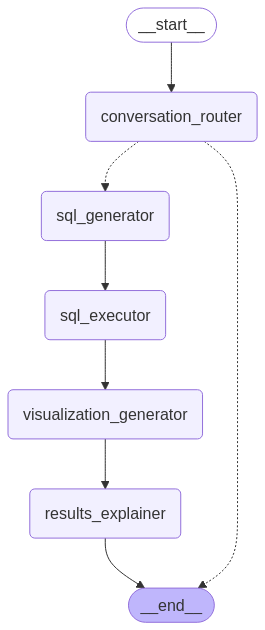
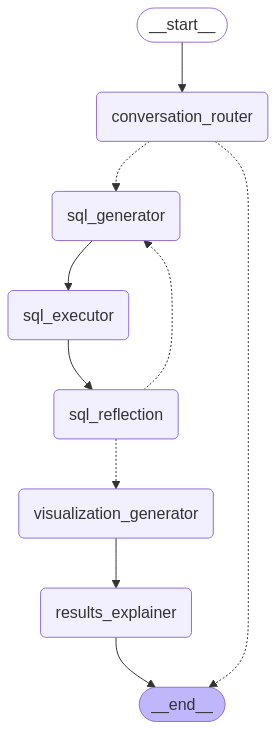
Add a SQL reflection Agent

Changed region(s): [[0.0, 0.0, 0.9962, 0.9048], [0.4528, 0.9048, 0.8453, 0.9952], [0.966, 0.181, 0.9962, 0.2111]]

diff --git a/src/core/agents.py b/src/core/agents.py
@@ -16,6 +16,7 @@ from src.prompts import (
     SQL_EXECUTOR_PROMPT,
     VISUALIZATION_PROMPT,
     CONVERSATION_ROUTER_PROMPT,
+    SQL_REFLECTION_PROMPT,
 )
 from src.models.gemini import get_model
 from src.tools.bigquery import execute_bigquery_sql
@@ -41,6 +42,9 @@ class AnalysisState(TypedDict):
     visualization_config: Dict[str, Any]
     chat_history: Optional[List[Dict[str, str]]]
     requires_analytics: bool  # New field to track if analytics is needed
+    sql_feedback: Optional[str]  # Field to store feedback for SQL regeneration
+    reflection_result: Optional[str]  # Field to store the SQL reflection decision
+    general_response: Optional[str]  # Field to store general conversation response
 
 
 # Initialize the model client
@@ -140,15 +144,20 @@ def sql_generator_node(state: AnalysisState):
     if conversation_context:
         system_prompt += f"\n\nRecent conversation history for context:\n{conversation_context}"
     
+    # Determine if we should include SQL feedback from a prior reflection
+    user_content = f"Convert this question into a BigQuery SQL query: {state['question']}"
+    
+    # If we have feedback from a previous SQL execution, include it
+    if state.get("sql_feedback"):
+        user_content += f"\n\nImportant feedback from previous SQL execution to incorporate:\n{state['sql_feedback']}"
+        
     messages = [
         SystemMessage(content=system_prompt),
-        HumanMessage(
-            content=f"Convert this question into a BigQuery SQL query: {state['question']}"
-        ),
+        HumanMessage(content=user_content),
     ]
     response = model.invoke(messages)
 
-    return {"messages": [response], "sql_query": response.content}
+    return {"messages": [response], "sql_query": response.content, "sql_feedback": None}
 
 
 #######################################
@@ -188,6 +197,86 @@ def sql_executor_node(state: AnalysisState):
 
     # Extract results from the tool response
     return {"messages": [result_message], "query_results": response}
+
+
+#######################################
+# SQL Reflection Node
+#######################################
+
+
+def sql_reflection_node(state: AnalysisState):
+    """
+    Node that evaluates SQL execution results to determine if they're valid and useful.
+    
+    Args:
+        state: The current state of the analytics workflow
+        
+    Returns:
+        Updated state with reflection results and decision to proceed or retry
+    """
+    # Get the original question, SQL query, and query results
+    question = state["question"]
+    sql_query = state["sql_query"]
+    query_results = state["query_results"]
+    
+    # Format the query results for easier analysis
+    formatted_results = str(query_results)
+    if isinstance(query_results, dict) and "results" in query_results:
+        if isinstance(query_results["results"], list):
+            # Include number of results and sample of data
+            result_count = len(query_results["results"])
+            sample = query_results["results"][:5] if result_count > 0 else []
+            formatted_results = f"Total results: {result_count}\nSample: {sample}"
+    
+    # Create the reflection prompt
+    messages = [
+        SystemMessage(content=SQL_REFLECTION_PROMPT),
+        HumanMessage(
+            content=f"""
+            Original question: {question}
+            
+            SQL query executed:
+            {sql_query}
+            
+            Execution results:
+            {formatted_results}
+            
+            Did these results properly answer the question?
+            """
+        ),
+    ]
+    
+    # Get the reflection response
+    response = model.invoke(messages)
+    reflection_content = response.content
+    
+    logger.info(f"SQL reflection: {reflection_content[:100]}...")
+    
+    # Determine if we should proceed or retry based on the reflection
+    should_proceed = reflection_content.upper().startswith("DECISION: PASS")
+    reflection_result = "PASS" if should_proceed else "RETRY"
+    
+    # Extract feedback for SQL regeneration if needed
+    sql_feedback = None
+    if not should_proceed:
+        # Extract the feedback part (after "DECISION: RETRY")
+        decision_marker = "DECISION: RETRY"
+        if decision_marker in reflection_content:
+            sql_feedback = reflection_content[reflection_content.find(decision_marker) + len(decision_marker):].strip()
+        else:
+            sql_feedback = reflection_content
+    
+    # Log both the reflection result and feedback for debugging
+    logger.info(f"SQL reflection decision: {reflection_result}")
+    if sql_feedback:
+        logger.info(f"SQL feedback for retry: {sql_feedback[:100]}...")
+    
+    # Return decision and feedback
+    return {
+        "messages": [response],
+        "reflection_result": reflection_result,
+        "sql_feedback": sql_feedback
+    }
 
 
 #######################################

diff --git a/src/core/graph.py b/src/core/graph.py
@@ -6,7 +6,6 @@ from langgraph.graph import END, START, StateGraph
 from langgraph.checkpoint.memory import MemorySaver
 from typing import Dict, Any, AsyncIterator, TypedDict, List, Union, Optional, Callable
 from langchain_core.messages import BaseMessage, HumanMessage, AIMessage
-import asyncio
 import logging
 
 from src.core.agents import (
@@ -16,6 +15,7 @@ from src.core.agents import (
     results_explainer_node,
     visualization_generator_node,
     conversation_router_node,
+    sql_reflection_node,
 )
 
 # Initialize agent memory
@@ -39,6 +39,7 @@ def create_analytics_graph():
     workflow.add_node("conversation_router", conversation_router_node)
     workflow.add_node("sql_generator", sql_generator_node)
     workflow.add_node("sql_executor", sql_executor_node)
+    workflow.add_node("sql_reflection", sql_reflection_node)
     workflow.add_node("visualization_generator", visualization_generator_node)
     workflow.add_node("results_explainer", results_explainer_node)
 
@@ -80,9 +81,41 @@ def create_analytics_graph():
         }
     )
     
-    # Continue with the standard analytics pipeline
+    # Standard analytics pipeline with SQL, then execution
     workflow.add_edge("sql_generator", "sql_executor")
-    workflow.add_edge("sql_executor", "visualization_generator")
+    
+    # Add SQL reflection node after execution
+    workflow.add_edge("sql_executor", "sql_reflection")
+    
+    # Define conditional routing based on SQL reflection results
+    def route_sql_results(state: AnalysisState) -> str:
+        """Determine whether to proceed with results or retry SQL generation."""
+        reflection_result = state.get("reflection_result", "PASS")
+        
+        # Ensure reflection_result is properly set in the state for handlers to access
+        logger.info(f"SQL Reflection decision: {reflection_result}")
+        
+        if reflection_result == "RETRY":
+            # Log the feedback that will be provided to SQL generator
+            feedback = state.get("sql_feedback", "Results were not satisfactory")
+            logger.info(f"SQL feedback for retry: {feedback[:100]}...")
+            return "sql_generator"
+        else:
+            # Proceed with visualization and explanation
+            logger.info("SQL reflection passed, proceeding with results processing")
+            return "visualization_generator"
+    
+    # Add conditional edges from SQL reflection
+    workflow.add_conditional_edges(
+        "sql_reflection",
+        route_sql_results,
+        {
+            "sql_generator": "sql_generator",  # Route back to SQL generator for retry
+            "visualization_generator": "visualization_generator",  # Continue to visualization
+        }
+    )
+    
+    # Continue with visualization and results explanation
     workflow.add_edge("visualization_generator", "results_explainer")
     workflow.add_edge("results_explainer", END)
 
@@ -90,6 +123,7 @@ def create_analytics_graph():
     graph = workflow.compile(checkpointer=memory)
     logger.info("Analytics graph compiled successfully.")
     graph.get_graph().draw_mermaid_png(output_file_path="analytics_graph.png")
+    logger.info("Analytics graph diagram saved as analytics_graph.png")
 
     return graph
 
@@ -121,7 +155,9 @@ def run_analytics_query(question: str, chat_history: Optional[List[Dict[str, str
         "visualization_config": {},
         "chat_history": chat_history or [],
         "requires_analytics": False,
-        "general_response": ""
+        "general_response": "",
+        "sql_feedback": None,
+        "reflection_result": None
     }
 
     # Execute the workflow
@@ -180,7 +216,9 @@ async def stream_analytics_query(
         "visualization_config": {},
         "chat_history": chat_history or [],
         "requires_analytics": False,
-        "general_response": ""
+        "general_response": "",
+        "sql_feedback": None,
+        "reflection_result": None
     }
 
     # Stream each step of the workflow execution

diff --git a/src/web/handlers.py b/src/web/handlers.py
@@ -126,6 +126,11 @@ def handle_stream_event(event: StreamEvent):
                 with st.session_state.sql_placeholder:
                     with st.expander("SQL Query", expanded=True):
                         st.markdown(sql_query)
+            
+            # Update status message
+            if st.session_state.response_placeholder:
+                with st.session_state.response_placeholder:
+                    st.markdown("Generating SQL query...")
     
     elif node == "sql_executor":
         if "query_results" in data.get("sql_executor", {}):
@@ -134,6 +139,30 @@ def handle_stream_event(event: StreamEvent):
             if st.session_state.response_placeholder:
                 with st.session_state.response_placeholder:
                     st.markdown("Running SQL query on BigQuery...")
+    
+    elif node == "sql_reflection":
+        reflection_data = data.get("sql_reflection", {})
+        if reflection_data:
+            # Extract the reflection result and feedback directly from the sql_reflection node data
+            reflection_result = reflection_data.get("reflection_result")
+            sql_feedback = reflection_data.get("sql_feedback")
+            
+            # Store these in session state for reference
+            st.session_state.current_response["reflection_result"] = reflection_result
+            if sql_feedback:
+                st.session_state.current_response["sql_feedback"] = sql_feedback
+            
+            # Log the reflection decision
+            logger.info(f"SQL Reflection decision: {reflection_result}")
+            
+            # Show reflection status in UI
+            if st.session_state.response_placeholder:
+                with st.session_state.response_placeholder:
+                    if reflection_result == "PASS":
+                        st.markdown("SQL results look good, generating visualization...")
+                    elif reflection_result == "RETRY":
+                        feedback_summary = sql_feedback[:100] + "..." if sql_feedback and len(sql_feedback) > 100 else "No specific feedback provided"
+                        st.markdown(f"Refining SQL query to get better results: {feedback_summary}")
     
     elif node == "visualization_generator":
         viz_config = data.get("visualization_generator", {}).get("visualization_config")

diff --git a/src/prompts/__init__.py b/src/prompts/__init__.py
@@ -39,6 +39,34 @@ If you're handling a non-analytics query:
 Your goal is to be conversational for general queries while directing analytics questions to the data pipeline.
 """
 
+SQL_REFLECTION_PROMPT = """You are an SQL execution quality controller. Your job is to:
+
+1. Review the SQL query that was executed 
+2. Analyze the execution results
+3. Determine if the results properly answer the original question
+4. Make a clear binary decision whether to proceed with these results or retry with improved SQL
+
+Use this decision-making framework:
+- PASS (proceed with results) if:
+  * The results contain relevant data that answers the original question
+  * The data structure is appropriate for visualization and analysis
+  * There are no errors in the execution results
+  * The result set is not empty (unless that's the expected answer)
+  * The number of results is reasonable (not too few, not overwhelming)
+
+- RETRY (regenerate SQL) if:
+  * The execution resulted in an error
+  * The result set is empty when data was expected
+  * The results don't appear to address the original question
+  * The data structure is inappropriate for meaningful analysis
+  * Critical columns or metrics are missing from the results
+  * The query seems to have misunderstood the intent of the question
+
+Your response MUST start with either "DECISION: PASS" or "DECISION: RETRY" followed by a brief explanation.
+
+If the decision is RETRY, provide specific feedback about what was wrong with the original SQL or results and how it could be improved.
+"""
+
 SQL_EXECUTOR_PROMPT = """You are a BigQuery execution specialist. Your job is to:
 1. Take SQL queries, and check if they are valid BigQuery SQL queries, formatted correctly
 2. Execute them using the BigQuery client tool

diff --git a/src/web/state.py b/src/web/state.py
@@ -52,6 +52,8 @@ def reset_current_response():
         "sql_query": None,
         "viz_config": None, 
         "viz_data": None,
-        "explanation": None
+        "explanation": None,
+        "reflection_result": None,
+        "sql_feedback": None
     }
     logger.debug("Reset current response data")

diff --git a/README.md b/README.md
@@ -17,6 +17,7 @@ Deployed Link: <https://ga-bi-agent.streamlit.app/>
 - **Command Line Interface**: Alternative CLI access for quick queries
 - **Secure SQL Execution**: Ensures no harmful SQL queries are executed on the database
 - **LLM Agnostic**: Uses Langchain, so you can easily switch between different LLMs Providers
+- **Self Correcting**: A Reflection agent verifies that the SQL query is correct and returns the expected results
 
 ## Setup
 
@@ -67,6 +68,7 @@ Deployed Link: <https://ga-bi-agent.streamlit.app/>
 ├── PROBLEM-STATEMENT.md
 ├── README.md
 ├── __init__.py
+├── analytics_graph.png
 ├── main.py
 ├── pyproject.toml
 ├── src
@@ -100,5 +102,5 @@ Deployed Link: <https://ga-bi-agent.streamlit.app/>
 │       └── state.py
 └── uv.lock
 
-10 directories, 31 files
+10 directories, 32 files
 ```
